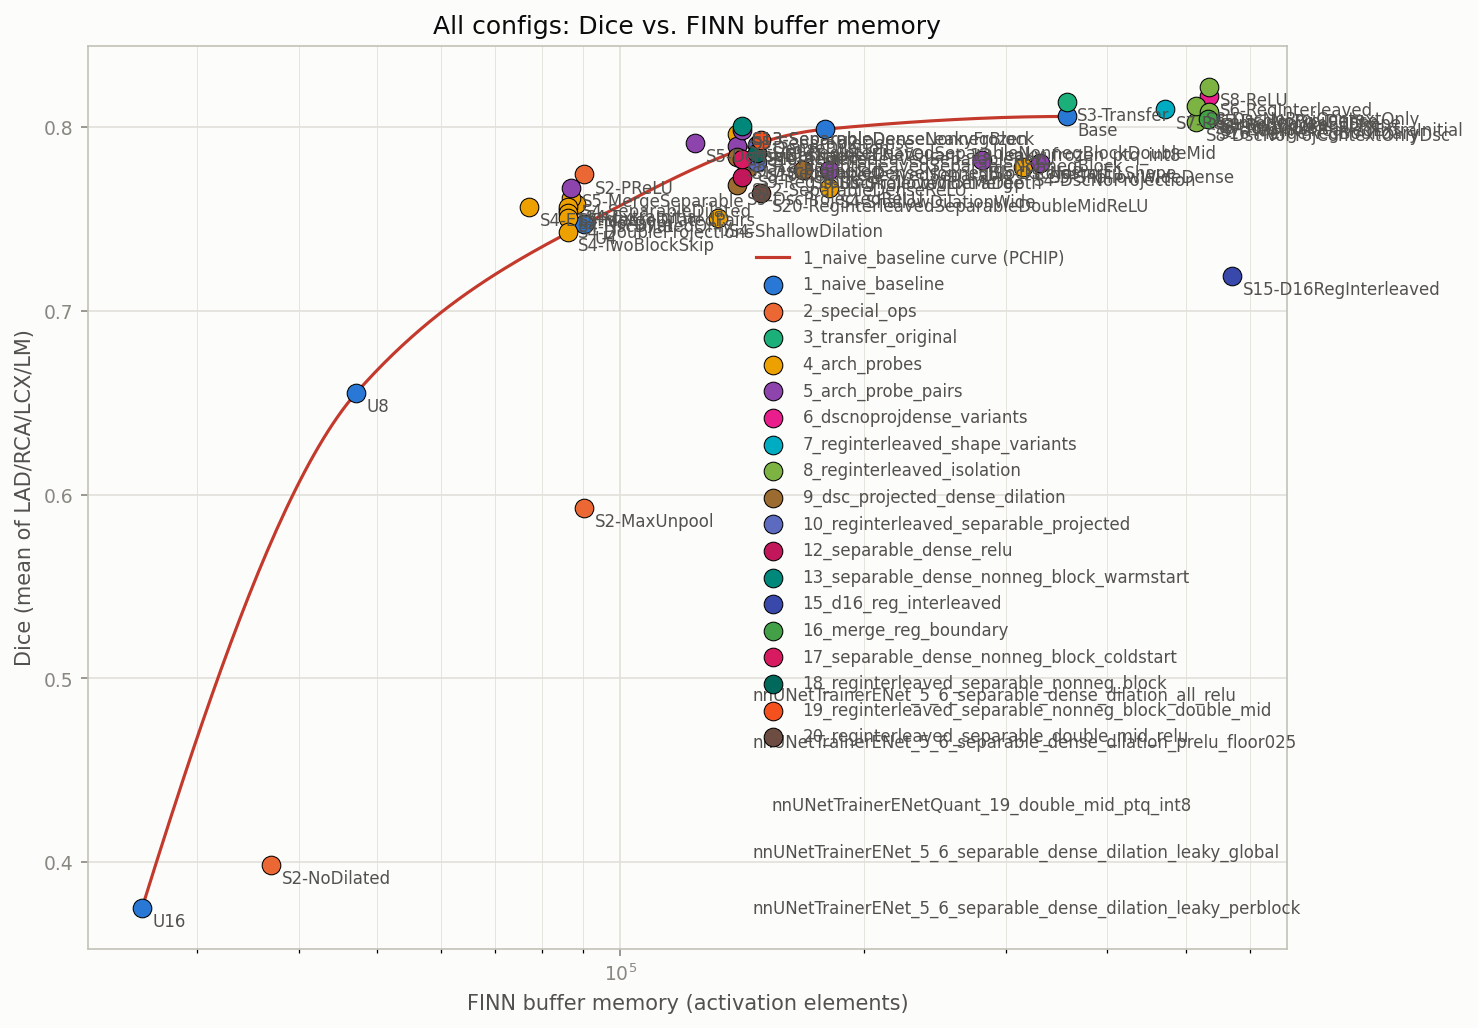
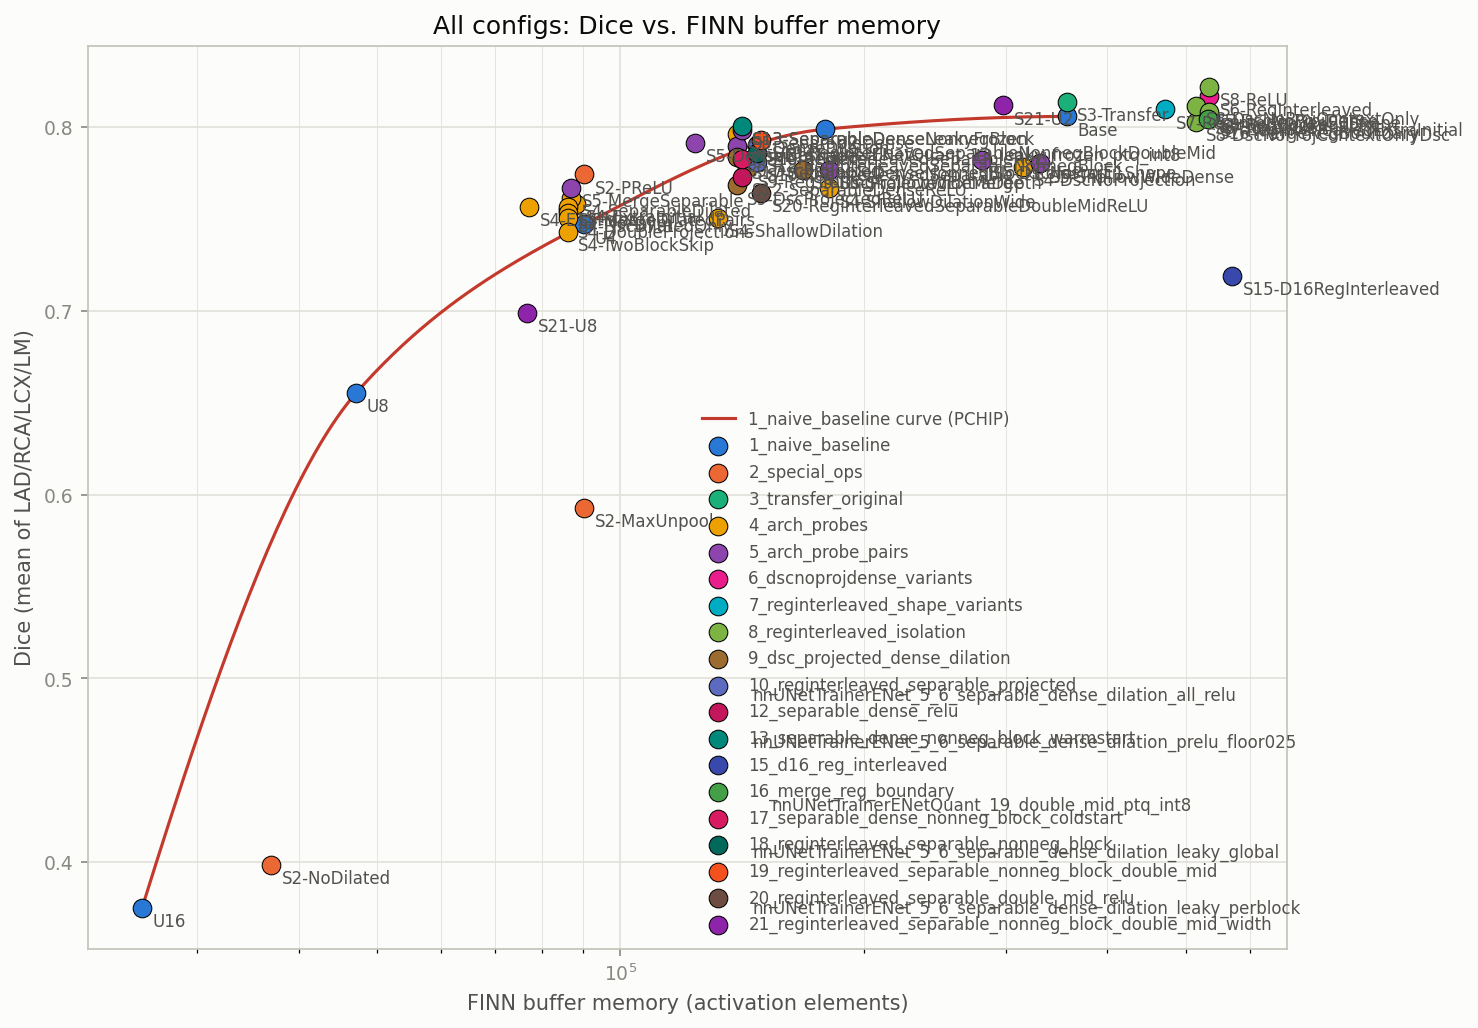
Collect S21 U2/U8 real results -- S19's architecture beats the naive width-compression curve at two points
S21-U2 (channels=8,32,64,32,8): dice=0.8117, params=117199 -- above the
naive baseline curve's own value at that param count (~0.80 near the Base
point).

S21-U8 (channels=4,8,16,8,4, same exact width as stage_1_naive_baseline's
own U8 point): dice=0.6990, params=8696 -- vs naive U8's dice=0.6555 at
params=6841, a real +0.0435 dice improvement at a similar param count.
Clearly above the naive curve at that x-position.

Together these confirm S19's dice-vs-params tradeoff genuinely beats the
naive channel-width compression curve, not just at the single U4-width
point already available -- direct motivation for building stage_21 in the
first place. ENet-Original width still disabled per earlier request.

plot_all_configs.py: added stage color for
21_reginterleaved_separable_nonneg_block_double_mid_width, regenerated all
3 combined plots. (Not added to plot_arch_probes_focused.py -- that plot
is deliberately scoped to the fixed U4 param budget; S21's whole point is
testing different widths, so it only belongs on the params/MACs axis.)

diff --git a/compression/plot_all_configs.py b/compression/plot_all_configs.py
@@ -45,6 +45,7 @@ STAGE_COLORS = {
     "18_reginterleaved_separable_nonneg_block": "#00695c",
     "19_reginterleaved_separable_nonneg_block_double_mid": "#f4511e",
     "20_reginterleaved_separable_double_mid_relu": "#6d4c41",
+    "21_reginterleaved_separable_nonneg_block_double_mid_width": "#8e24aa",
 }
 CURVE_STAGE = "1_naive_baseline"
 CURVE_COLOR = "#c3392b"
